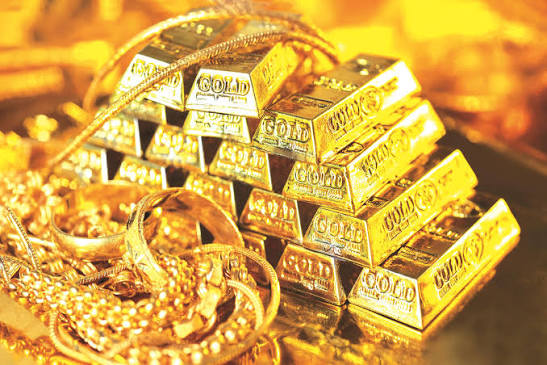
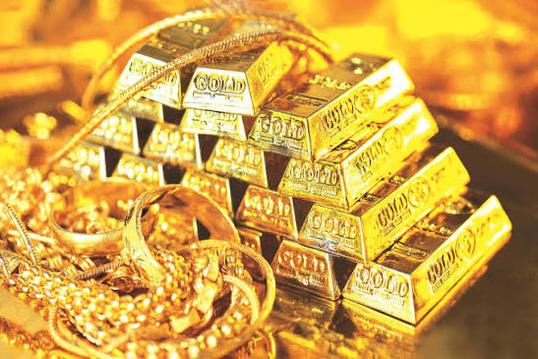
modi

diff --git a/Products.html b/Products.html
@@ -165,7 +165,7 @@
             <div class="ownerInfoItem">
               <div class="ownerInfoItemCon">
                 <div class="imgDiv">
-                  <img src="/imgs/gold bars.jpeg" alt="GOLD-IMG" />
+                  <img src="/imgs/goldbars.jpg" alt="GOLD-IMG" />
                 </div>
                 <div class="detail">
                   <h2>GOLD</h2>
@@ -202,10 +202,10 @@
                 </div>
               </div>
             </div>
-            <div class="ownerInfoItem">
+            <!-- <div class="ownerInfoItem">
               <div class="ownerInfoItemCon">
                 <div class="imgDiv">
-                  <img   src="/imgs/iron.jpeg" alt="IRON-IMG"/>
+                  <img   src="/imgs/iron.jpg" alt="IRON-IMG"/>
                 </div>
                 <div class="detail">
                   <h2>IRON</h2>
@@ -226,7 +226,7 @@
             <div class="ownerInfoItem">
               <div class="ownerInfoItemCon">
                 <div class="imgDiv">
-                  <img src="/imgs/silverbars.jpeg" alt="SILVER-IMG" />
+                  <img src="/imgs/diamondtesting.jpeg" alt="SILVER-IMG" />
                 </div>
                 <div class="detail">
                   <h2>SILVER</h2>
@@ -245,7 +245,7 @@
                   <h2>SILVER BARS</h2>
                 </div>
               </div>
-            </div>
+            </div> -->
           </div>
         </div>
       </section>

diff --git a/ownersInfo.css b/ownersInfo.css
@@ -11,6 +11,7 @@
     display: grid;
     grid-template-columns: repeat(auto-fit, minmax(200px, 1fr));
     gap: 3rem;
+    height: auto;
     max-width: 80vw;
     width: fit-content;
 
@@ -19,6 +20,10 @@
     width: 100%;       /* Takes full width of the grid cell */
     height: 380px;     /* Set YOUR desired uniform height here */
     overflow: hidden; 
+}
+.ownerInfoItemCon .imgDiv{
+    width: 100%;
+    overflow: hidden;
 }
 .ownersInfoCon{
     margin: 4rem auto;
@@ -46,9 +51,12 @@
 .ownerInfoItemCon .detail{
     padding: 2rem;
     display: flex;
+    text-align: center;
+    font-weight: bold;
     flex-direction: column;
     gap: 1rem;
 }
+
 .ownerInfoItem a{
     display: flex;
     align-items: center;
